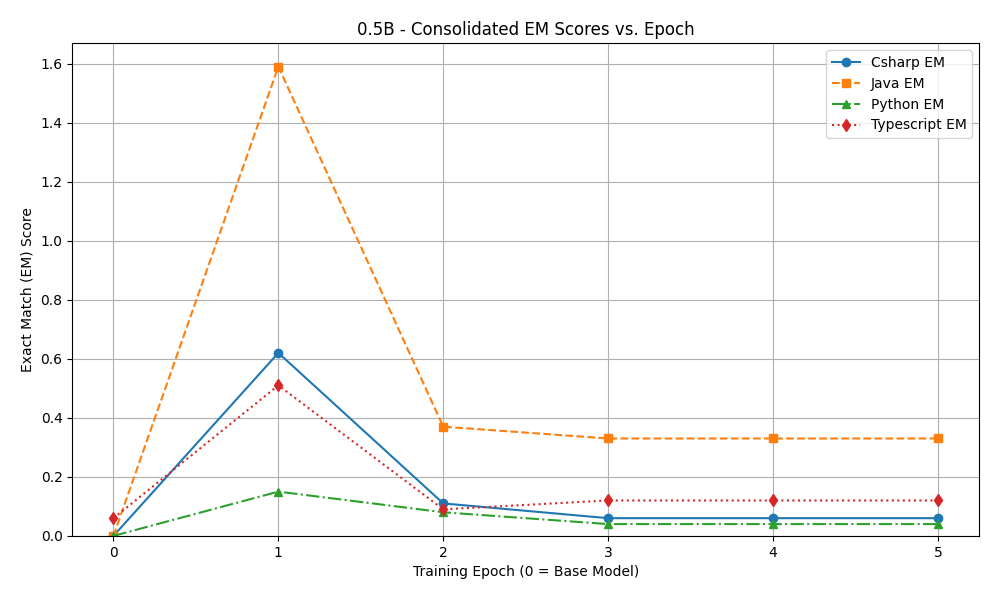
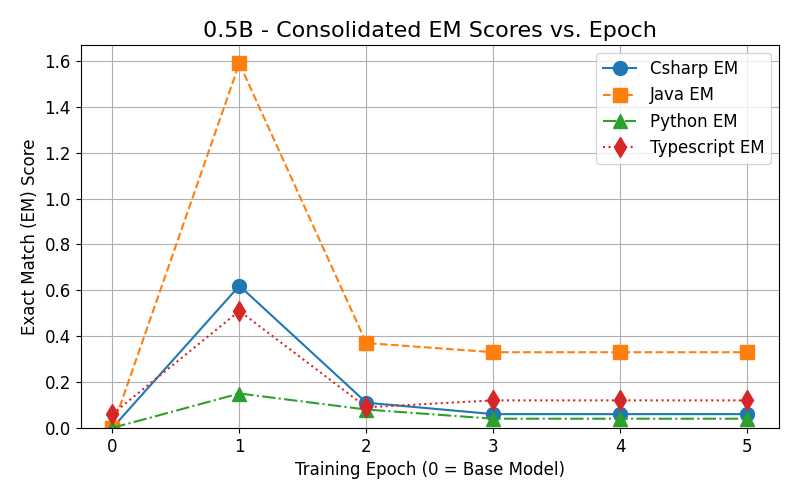
smaller plots

Changed region(s): [[0.0, 0.03, 1.0, 0.96]]

diff --git a/lora_tune/results/plot_results.py b/lora_tune/results/plot_results.py
@@ -88,19 +88,24 @@ def plot_overall_metrics(epoch_data, model_size, epochs, output_dir):
     os.makedirs(output_dir, exist_ok=True)
 
     metrics_to_plot = ["EM", "ES", "ES RepoEval"]
+    title_fontsize = 14
+    label_fontsize = 12
+    tick_fontsize = 12
+    marker_size = 10
 
     for metric in metrics_to_plot:
         values = [epoch_data[ep]["overall"][metric] for ep in epochs]
 
-        plt.figure(figsize=(8, 5))
-        plt.plot(epochs, values, marker="o", linestyle="-")
-        plt.title(f"{model_size} - Overall {metric} vs. Epoch")
-        plt.xlabel("Training Epoch (0 = Base Model)")
-        plt.ylabel(f"Overall {metric} Score")
-        plt.xticks(epochs)  # Ensure all epoch numbers are shown
+        plt.figure(figsize=(6, 4))
+        plt.plot(epochs, values, marker="o", linestyle="-", markersize=marker_size)
+        plt.title(f"{model_size} - Overall {metric} vs. Epoch", fontsize=title_fontsize)
+        plt.xlabel("Training Epoch (0 = Base Model)", fontsize=label_fontsize)
+        plt.ylabel(f"Overall {metric} Score", fontsize=label_fontsize)
+        plt.xticks(epochs, fontsize=tick_fontsize)
+        plt.yticks(fontsize=tick_fontsize)
         plt.grid(True)
-        plt.ylim(bottom=0)  # Start y-axis at 0 for clarity
-        plt.tight_layout(pad=1.5)  # Add padding to prevent title/label cutoff
+        plt.ylim(bottom=0)
+        plt.tight_layout(pad=1.5)
 
         filename = os.path.join(output_dir, f"{model_size}_overall_{metric}.png")
         plt.savefig(filename)
@@ -123,15 +128,24 @@ def plot_language_metrics(epoch_data, model_size, epochs, output_dir):
         print("No language-specific data found to plot.")
         return
 
+    title_fontsize = 16
+    label_fontsize = 12
+    tick_fontsize = 12
+    marker_size_em = 10
+    marker_size_es = 10
+    legend_fontsize = 12
+
     for lang in sorted(list(languages)):
         em_values = [epoch_data[ep]["languages"][lang]["EM"] for ep in epochs]
         es_values = [epoch_data[ep]["languages"][lang]["ES"] for ep in epochs]
 
-        fig, ax1 = plt.subplots(figsize=(10, 6))
+        fig, ax1 = plt.subplots(figsize=(8, 5))
 
         color_em = "tab:blue"
-        ax1.set_xlabel("Training Epoch (0 = Base Model)")
-        ax1.set_ylabel(f"{lang.capitalize()} Exact Match (EM) Score", color=color_em)
+        ax1.set_xlabel("Training Epoch (0 = Base Model)", fontsize=label_fontsize)
+        ax1.set_ylabel(
+            f"{lang.capitalize()} EM Score", color=color_em, fontsize=label_fontsize
+        )
         ax1.plot(
             epochs,
             em_values,
@@ -139,18 +153,19 @@ def plot_language_metrics(epoch_data, model_size, epochs, output_dir):
             linestyle="-",
             color=color_em,
             label=f"{lang} EM",
+            markersize=marker_size_em,
         )
-        ax1.tick_params(axis="y", labelcolor=color_em)
-        ax1.set_xticks(epochs)  # Ensure all epoch numbers are shown
-        ax1.grid(True, axis="x")  # Grid only for x-axis to avoid clutter
+        ax1.tick_params(axis="y", labelcolor=color_em, labelsize=tick_fontsize)
+        ax1.set_xticks(epochs)
+        ax1.set_xticklabels(epochs, fontsize=tick_fontsize)
+        ax1.grid(True, axis="x")
         ax1.set_ylim(bottom=0)
 
-        ax2 = ax1.twinx()  # instantiate a second axes that shares the same x-axis
-
+        ax2 = ax1.twinx()
         color_es = "tab:red"
         ax2.set_ylabel(
-            f"{lang.capitalize()} Edit Similarity (ES) Score", color=color_es
-        )  # we already handled the x-label with ax1
+            f"{lang.capitalize()} ES Score", color=color_es, fontsize=label_fontsize
+        )
         ax2.plot(
             epochs,
             es_values,
@@ -158,14 +173,22 @@ def plot_language_metrics(epoch_data, model_size, epochs, output_dir):
             linestyle="--",
             color=color_es,
             label=f"{lang} ES",
+            markersize=marker_size_es,
         )
-        ax2.tick_params(axis="y", labelcolor=color_es)
+        ax2.tick_params(axis="y", labelcolor=color_es, labelsize=tick_fontsize)
         ax2.set_ylim(bottom=0)
 
-        plt.title(f"{model_size} - {lang.capitalize()} EM & ES vs. Epoch")
-        fig.tight_layout()  # adjust layout *after* setting title
-        # Adding legends - might need adjustment for position
-        # fig.legend(loc="upper right", bbox_to_anchor=(1,1), bbox_transform=ax1.transAxes)
+        plt.title(
+            f"{model_size} - {lang.capitalize()} EM & ES vs. Epoch",
+            fontsize=title_fontsize,
+        )
+        lines1, labels1 = ax1.get_legend_handles_labels()
+        lines2, labels2 = ax2.get_legend_handles_labels()
+        ax2.legend(
+            lines1 + lines2, labels1 + labels2, loc="best", fontsize=legend_fontsize
+        )
+
+        fig.tight_layout()
 
         filename = os.path.join(output_dir, f"{model_size}_{lang}_EM_ES.png")
         plt.savefig(filename)
@@ -187,9 +210,13 @@ def plot_consolidated_em_all_languages(epoch_data, model_size, epochs, output_di
         print("No language-specific data found for consolidated EM plot.")
         return
 
-    plt.figure(figsize=(10, 6))
+    title_fontsize = 16
+    label_fontsize = 12
+    tick_fontsize = 12
+    marker_size = 10
+    legend_fontsize = 12
 
-    # Define markers and linestyles to differentiate languages
+    plt.figure(figsize=(8, 5))
     markers = ["o", "s", "^", "d", "v", "<", ">", "p", "*", "h", "H", "+", "x", "D"]
     linestyles = ["-", "--", "-.", ":"]
 
@@ -201,15 +228,19 @@ def plot_consolidated_em_all_languages(epoch_data, model_size, epochs, output_di
             marker=markers[i % len(markers)],
             linestyle=linestyles[i % len(linestyles)],
             label=f"{lang.capitalize()} EM",
+            markersize=marker_size,
         )
 
-    plt.title(f"{model_size} - Consolidated EM Scores vs. Epoch")
-    plt.xlabel("Training Epoch (0 = Base Model)")
-    plt.ylabel("Exact Match (EM) Score")
-    plt.xticks(epochs)
+    plt.title(
+        f"{model_size} - Consolidated EM Scores vs. Epoch", fontsize=title_fontsize
+    )
+    plt.xlabel("Training Epoch (0 = Base Model)", fontsize=label_fontsize)
+    plt.ylabel("Exact Match (EM) Score", fontsize=label_fontsize)
+    plt.xticks(epochs, fontsize=tick_fontsize)
+    plt.yticks(fontsize=tick_fontsize)
     plt.grid(True)
     plt.ylim(bottom=0)
-    plt.legend()
+    plt.legend(fontsize=legend_fontsize)
     plt.tight_layout(pad=1.5)
 
     filename = os.path.join(output_dir, f"{model_size}_consolidated_EM.png")
@@ -232,8 +263,13 @@ def plot_consolidated_es_all_languages(epoch_data, model_size, epochs, output_di
         print("No language-specific data found for consolidated ES plot.")
         return
 
-    plt.figure(figsize=(10, 6))
+    title_fontsize = 16
+    label_fontsize = 12
+    tick_fontsize = 12
+    marker_size = 10
+    legend_fontsize = 12
 
+    plt.figure(figsize=(8, 5))
     markers = ["o", "s", "^", "d", "v", "<", ">", "p", "*", "h", "H", "+", "x", "D"]
     linestyles = ["-", "--", "-.", ":"]
 
@@ -245,15 +281,19 @@ def plot_consolidated_es_all_languages(epoch_data, model_size, epochs, output_di
             marker=markers[i % len(markers)],
             linestyle=linestyles[i % len(linestyles)],
             label=f"{lang.capitalize()} ES",
+            markersize=marker_size,
         )
 
-    plt.title(f"{model_size} - Consolidated ES Scores vs. Epoch")
-    plt.xlabel("Training Epoch (0 = Base Model)")
-    plt.ylabel("Edit Similarity (ES) Score")
-    plt.xticks(epochs)
+    plt.title(
+        f"{model_size} - Consolidated ES Scores vs. Epoch", fontsize=title_fontsize
+    )
+    plt.xlabel("Training Epoch (0 = Base Model)", fontsize=label_fontsize)
+    plt.ylabel("Edit Similarity (ES) Score", fontsize=label_fontsize)
+    plt.xticks(epochs, fontsize=tick_fontsize)
+    plt.yticks(fontsize=tick_fontsize)
     plt.grid(True)
     plt.ylim(bottom=0)
-    plt.legend()
+    plt.legend(fontsize=legend_fontsize)
     plt.tight_layout(pad=1.5)
 
     filename = os.path.join(output_dir, f"{model_size}_consolidated_ES.png")
